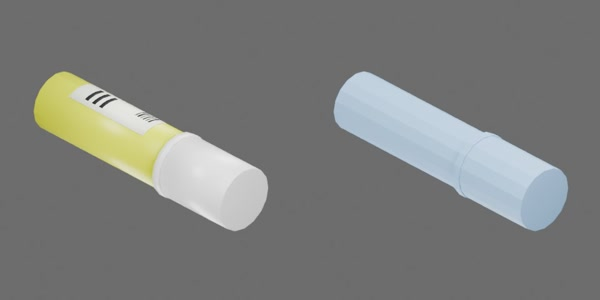
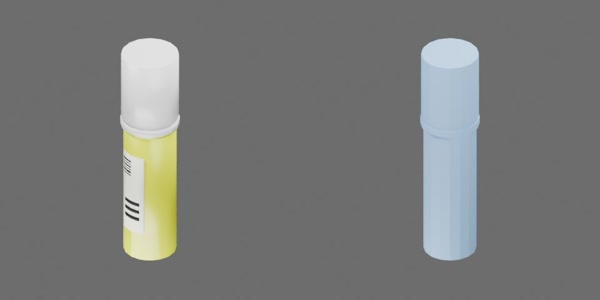
Correct stationery frames, moving assemblies and stapler stop

Changed region(s): [[0.03, 0.12, 0.45, 0.87], [0.54, 0.12, 0.96, 0.87]]

diff --git a/asset_sources/objects/stapler/000000/object.py b/asset_sources/objects/stapler/000000/object.py
@@ -17,6 +17,19 @@ if not (source.parent / "asset_builders.py").exists():
 from asset_builders import asset, body, box, collider, cylinder, generate, joint, material, mesh
 
 
+PIVOT = Vector((0.024, 0, 0.017))
+OPEN_ANGLE = math.radians(12)
+CHANNEL_FRONT = -0.0313
+CHANNEL_BOTTOM = 0.0145
+ANVIL_TOP = 0.00955
+# The front underside of the metal channel meets the anvil top at the stop.
+contact_dx = PIVOT.x - CHANNEL_FRONT
+contact_dz = CHANNEL_BOTTOM - PIVOT.z
+CONTACT_ANGLE = (math.asin((ANVIL_TOP - PIVOT.z) / math.hypot(contact_dx, contact_dz))
+                 - math.atan2(contact_dz, contact_dx))
+PRESS_LIMIT = CONTACT_ANGLE - OPEN_ANGLE
+
+
 def slab(name, length, width, bottom, front_top, rear_top, radius, position, surface, parent,
          rear_width=None):
     contour = []
@@ -47,7 +60,7 @@ def slab(name, length, width, bottom, front_top, rear_top, radius, position, sur
 def build():
     white = material("Ivory white molded plastic", (0.78, 0.80, 0.78), 0.29)
     blue = material("Baby blue upper cover", (0.27, 0.54, 0.72), 0.29)
-    metal = material("Stapler steel", (0.50, 0.54, 0.57), 0.24, metallic=0.92)
+    metal = material("Stapler steel", (0.65, 0.68, 0.70), 0.36, metallic=0.85)
     dark = material("Throat and clinch recess", (0.025, 0.03, 0.035), 0.65)
     root = asset("15_Mini_Stapler", "bottom center of the base", "+X length toward hinge; +Y width; +Z up",
                  "staple mouth at -X")
@@ -66,21 +79,25 @@ def build():
             bevel=0.001)
     cylinder("Recessed pivot axle", 0.0014, 0.022, (0.024, 0, 0.017), metal, base, axis="Y")
     upper = body("Stapler moving upper", root)
-    slab("Complete blue upper cover", 0.069, 0.028, -0.005, 0.004, 0.006, 0.006,
+    slab("Complete blue upper cover", 0.069, 0.028, 0, 0.008, 0.010, 0.006,
          (0.002, 0, 0.024), blue, upper, rear_width=0.020)
-    box("Dark central throat", (0.053, 0.010, 0.001), (-0.004, 0, 0.0185), dark, upper,
-        collision=False)
-    box("Steel magazine spine", (0.056, 0.011, 0.0015), (-0.004, 0, 0.0192), metal, upper)
-    for y in (-0.0062, 0.0062):
-        box("Steel magazine rail", (0.054, 0.0018, 0.0042), (-0.004, y, 0.021), metal, upper)
-    box("Magazine folded nose", (0.004, 0.014, 0.0045), (-0.031, 0, 0.0205), metal, upper)
-    box("Steel driver", (0.0025, 0.009, 0.006), (-0.031, 0, 0.021), metal, upper)
-    box("Blue rear bridge", (0.011, 0.020, 0.005), (0.024, 0, 0.0215), blue, upper)
-    pivot = Vector((0.024, 0, 0.017))
+    channel_length = 0.018 - CHANNEL_FRONT
+    channel_center = (0.018 + CHANNEL_FRONT) / 2
+    box("Steel staple channel floor", (channel_length, 0.0205, 0.0015),
+        (channel_center, 0, CHANNEL_BOTTOM + 0.00075), metal, upper)
+    for side, y in (("left", -0.0095), ("right", 0.0095)):
+        box(f"Steel staple channel {side} wall", (channel_length, 0.0015, 0.0065),
+            (channel_center, y, 0.01925), metal, upper)
+        box(f"Channel to cover {side} bracket", (0.003, 0.0025, 0.0035),
+            (0.012, y, 0.02325), metal, upper)
+    box("Steel channel front stop", (0.0018, 0.0205, 0.008),
+        (CHANNEL_FRONT + 0.0009, 0, 0.0185), metal, upper)
+    box("Steel driver", (0.001, 0.009, 0.005), (-0.0295, 0, 0.022), metal, upper)
+    box("Blue rear bridge", (0.011, 0.020, 0.006), (0.024, 0, 0.022), blue, upper)
     bpy.context.view_layer.update()
-    upper.matrix_basis = (Matrix.Translation(pivot) @ Matrix.Rotation(math.radians(7), 4, "Y")
-                          @ Matrix.Translation(-pivot))
-    joint("upper_press", "HINGE", base, upper, pivot, (-0.27, 0.70), (-math.pi / 2, 0, 0))
+    upper.matrix_basis = (Matrix.Translation(PIVOT) @ Matrix.Rotation(OPEN_ANGLE, 4, "Y")
+                          @ Matrix.Translation(-PIVOT))
+    joint("upper_press", "HINGE", base, upper, PIVOT, (PRESS_LIMIT, 0), (-math.pi / 2, 0, 0))
 
 
 def main(argv=None):

diff --git a/asset_sources/objects/glue/000000/object.py b/asset_sources/objects/glue/000000/object.py
@@ -1,4 +1,5 @@
 """White superglue bottle with a yellow tapered nozzle cap; one rigid body."""
+import math
 from pathlib import Path
 import sys
 
@@ -13,22 +14,24 @@ def build():
     white = material("White bottle plastic", (0.78, 0.80, 0.78), 0.29)
     yellow = material("Yellow nozzle and label", (0.70, 0.79, 0.012), 0.32)
     black = material("Label ink", (0.009, 0.012, 0.014), 0.70)
-    root = asset("12_Superglue_Bottle", "below bottle reference midpoint; center Z=0.0124 m",
-                 "+X length toward nozzle; +Y width; +Z up", "white bottle base at -X")
+    root = asset("12_Superglue_Bottle", "bottom center of the upright bottle",
+                 "+X width; +Y back; +Z upright toward nozzle", "label faces -Y")
     bottle = body("Superglue bottle", root)
-    cylinder("White glue bottle", 0.012, 0.039, (-0.010, 0, 0.0124), white, bottle)
-    cylinder("Yellow label band", 0.0121, 0.026, (-0.008, 0, 0.0124), yellow, bottle,
-             collision=False)
-    cylinder("White base rim", 0.0124, 0.006, (-0.032, 0, 0.0124), white, bottle)
-    cylinder("Yellow screw collar", 0.009, 0.010, (0.016, 0, 0.0124), yellow, bottle)
-    cylinder("Tapered nozzle cap", 0.0078, 0.039, (0.040, 0, 0.0124), yellow, bottle,
-             radius_end=0.0021)
-    label_patch("Black label stripe", 0.01236, 0.0025, (-0.022, 0, 0.0124), black, bottle,
-                span=1.5, segments=6)
-    label_patch("Black label block", 0.01236, 0.011, (-0.008, 0, 0.0124), black, bottle)
-    for x in (-0.011, -0.007, -0.003):
-        label_patch("Label print", 0.01245, 0.0015, (x, 0, 0.0124), yellow, bottle,
-                    span=0.7)
+    cylinder("White glue bottle", 0.012, 0.039, (0, 0, 0.025), white, bottle, axis="Z")
+    cylinder("Yellow label band", 0.0121, 0.026, (0, 0, 0.027), yellow, bottle,
+             axis="Z", collision=False)
+    cylinder("White base rim", 0.0124, 0.006, (0, 0, 0.003), white, bottle, axis="Z")
+    cylinder("White bottle neck", 0.0075, 0.004, (0, 0, 0.0455), white, bottle, axis="Z")
+    cylinder("Yellow screw collar", 0.009, 0.010, (0, 0, 0.051), yellow, bottle, axis="Z")
+    cylinder("Tapered nozzle cap", 0.0078, 0.039, (0, 0, 0.075), yellow, bottle,
+             axis="Z", radius_end=0.0021)
+    label_patch("Black label stripe", 0.01236, 0.0025, (0, 0, 0.013), black, bottle,
+                span=1.5, segments=6, axis="Z", angle=-math.pi / 2)
+    label_patch("Black label block", 0.01236, 0.011, (0, 0, 0.027), black, bottle,
+                axis="Z", angle=-math.pi / 2)
+    for z in (0.024, 0.028, 0.032):
+        label_patch("Label print", 0.01245, 0.0015, (0, 0, z), yellow, bottle,
+                    span=0.7, axis="Z", angle=-math.pi / 2)
 
 
 def main(argv=None):

diff --git a/asset_sources/objects/glue/000001/object.py b/asset_sources/objects/glue/000001/object.py
@@ -1,4 +1,5 @@
 """Yellow cylindrical glue stick and white cap, represented by one rigid body."""
+import math
 from pathlib import Path
 import sys
 
@@ -14,19 +15,21 @@ def build():
     white = material("White cap plastic", (0.78, 0.80, 0.78), 0.29)
     paper = material("Pale paper label", (0.87, 0.88, 0.77), 0.65)
     ink = material("Printed label", (0.009, 0.012, 0.014), 0.75)
-    root = asset("17_Yellow_Solid_Glue", "below tube reference midpoint; center Z=0.014 m",
-                 "+X length toward white cap; +Y width; +Z up", "yellow tube base at -X")
+    root = asset("17_Yellow_Solid_Glue", "bottom center of the upright tube",
+                 "+X width; +Y back; +Z upright toward white cap", "label faces -Y")
     stick = body("Glue stick", root)
-    cylinder("Yellow glue stick body", 0.0125, 0.070, (-0.020, 0, 0.014), yellow, stick)
-    cylinder("Yellow shoulder", 0.0128, 0.004, (0.014, 0, 0.014), yellow, stick)
-    cylinder("White cap", 0.0136, 0.036, (0.034, 0, 0.014), white, stick)
-    cylinder("White cap rim", 0.014, 0.0035, (0.0155, 0, 0.014), white, stick)
-    label_patch("Paper label", 0.0127, 0.042, (-0.020, 0, 0.014), paper, stick)
+    cylinder("Yellow glue stick body", 0.0125, 0.070, (0, 0, 0.035), yellow, stick, axis="Z")
+    cylinder("Yellow shoulder", 0.0128, 0.004, (0, 0, 0.069), yellow, stick, axis="Z")
+    cylinder("White cap", 0.0136, 0.036, (0, 0, 0.089), white, stick, axis="Z")
+    cylinder("White cap rim", 0.014, 0.0035, (0, 0, 0.0705), white, stick, axis="Z")
+    label_patch("Paper label", 0.0127, 0.042, (0, 0, 0.035), paper, stick,
+                axis="Z", angle=-math.pi / 2)
     for i, width in enumerate((0.0005, 0.0009, 0.0004, 0.0007, 0.0004, 0.0008)):
-        label_patch("Barcode line", 0.01278, width, (-0.010 + i * 0.0015, 0, 0.014),
-                    ink, stick, angle=1.32, span=0.5)
-    for x in (-0.033, -0.029, -0.025):
-        label_patch("Label print", 0.01278, 0.0018, (x, 0, 0.014), ink, stick, span=0.75)
+        label_patch("Barcode line", 0.01278, width, (0, 0, 0.045 + i * 0.0015),
+                    ink, stick, angle=-1.82, span=0.5, axis="Z")
+    for z in (0.022, 0.026, 0.030):
+        label_patch("Label print", 0.01278, 0.0018, (0, 0, z), ink, stick, span=0.75,
+                    axis="Z", angle=-math.pi / 2)
 
 
 def main(argv=None):

diff --git a/tests/modeling/test_geometry_checks.py b/tests/modeling/test_geometry_checks.py
@@ -91,21 +91,23 @@ class AcceptanceTests(unittest.TestCase):
             'convex_vertices': 64, 'convex_faces': 48,
         })
 
-    def test_pen_independent_slider_travel(self):
+    def test_pen_button_and_refill_share_slider(self):
         path=options.assets_root/'pen/000000/object.blend'
         camera=[.82,-.82,.72,0,0,1]
         with tempfile.TemporaryDirectory(dir=options.output) as tmp:
-            for values in ({'button_press':-.003}, {'refill_extend':-.003}):
+            for values in ({'button_press':-.003}, {'button_press':0}):
                 views={'pose.jpg':[{'frame':0,'camera':camera,'joints':values}]}
                 run_worker(path,views,Path(tmp),True)
                 checks=GeometryChecks()
-                self.assertEqual(len(checks.bodies),3)
+                self.assertEqual(len(checks.bodies),2)
+                self.assertEqual(len(checks.report['joints']),1)
                 self.assertFalse(checks.ignored)
-                for name in ('button_press','refill_extend'):
-                    c=bpy.data.objects[name].rigid_body_constraint
-                    self.assertEqual(c.type,'SLIDER')
-                    self.assertAlmostEqual(c.object2.matrix_world.translation.x,values.get(name,0),places=6)
-                    self.assertAlmostEqual(c.object1.matrix_world.translation.x,0,places=6)
+                c=bpy.data.objects['button_press'].rigid_body_constraint
+                self.assertEqual(c.type,'SLIDER')
+                self.assertAlmostEqual(c.object2.matrix_world.translation.x,values['button_press'],places=6)
+                self.assertAlmostEqual(c.object1.matrix_world.translation.x,0,places=6)
+                for name in ('Silver push button','Refill shaft','Fine ballpoint'):
+                    self.assertEqual(bpy.data.objects[name].parent,c.object2)
 
 
 result=unittest.TextTestRunner(verbosity=2).run(unittest.defaultTestLoader.loadTestsFromTestCase(AcceptanceTests))

diff --git a/asset_sources/objects/pen/000000/object.py b/asset_sources/objects/pen/000000/object.py
@@ -1,7 +1,7 @@
-"""Black retractable ballpoint: hollow barrel, independent button and refill.
+"""Black retractable ballpoint: hollow shell and one moving button/refill body.
 
 Local +X points to the button; tip is -X; barrel center is Z=0.006 m.
-Two native sliders describe travel, without spring or click-lock dynamics.
+One native slider describes travel, without spring or click-lock dynamics.
 """
 from pathlib import Path
 import sys
@@ -30,13 +30,11 @@ def build():
         bevel=0.0008)
     box("Pocket clip bridge", (0.004, 0.0055, 0.003), (0.050, 0.0025, 0.011), black, shell,
         bevel=0.0008)
-    button = body("Black pen button", root)
-    cylinder("Silver push button", 0.003, 0.012, (0.062, 0, 0.006), metal, button)
-    refill = body("Black pen refill", root)
-    cylinder("Refill shaft", 0.0009, 0.124, (-0.009, 0, 0.006), ink, refill)
-    cylinder("Fine ballpoint", 0.00045, 0.010, (-0.0753, 0, 0.006), metal, refill)
-    joint("button_press", "SLIDER", shell, button, (0.056, 0, 0.006), (-0.003, 0))
-    joint("refill_extend", "SLIDER", shell, refill, (-0.071, 0, 0.006), (-0.003, 0))
+    moving = body("Black pen button and refill", root)
+    cylinder("Silver push button", 0.003, 0.012, (0.062, 0, 0.006), metal, moving)
+    cylinder("Refill shaft", 0.0009, 0.127, (-0.0075, 0, 0.006), ink, moving)
+    cylinder("Fine ballpoint", 0.00045, 0.010, (-0.0753, 0, 0.006), metal, moving)
+    joint("button_press", "SLIDER", shell, moving, (0.056, 0, 0.006), (-0.003, 0))
 
 
 def main(argv=None):

diff --git a/asset_sources/objects/pen/000001/object.py b/asset_sources/objects/pen/000001/object.py
@@ -1,4 +1,4 @@
-"""White/black retractable pen: shell, push button and movable refill.
+"""White/black retractable pen: shell and one moving button/refill body.
 
 Local +X points to the button; tip is -X; barrel center is Z=0.005 m.
 The black rear housing is fixed; only its small end button translates.
@@ -27,13 +27,11 @@ def build():
          outer_end=0.0049, inner_end=0.0028)
     tube("Black shoulder", 0.0055, 0.0028, 0.003, (0.055, 0, 0.005), black, shell,
          collision=False)
-    button = body("White black pen button", root)
-    cylinder("Black push button", 0.003, 0.007, (0.0715, 0, 0.005), black, button)
-    refill = body("White black pen refill", root)
-    cylinder("Refill shaft", 0.0008, 0.138, (-0.007, 0, 0.005), ink, refill)
-    cylinder("Fine ballpoint", 0.0003, 0.010, (-0.0813, 0, 0.005), metal, refill)
-    joint("button_press", "SLIDER", shell, button, (0.068, 0, 0.005), (-0.003, 0))
-    joint("refill_extend", "SLIDER", shell, refill, (-0.076, 0, 0.005), (-0.003, 0))
+    moving = body("White black pen button and refill", root)
+    cylinder("Black push button", 0.003, 0.007, (0.0715, 0, 0.005), black, moving)
+    cylinder("Refill shaft", 0.0008, 0.144, (-0.004, 0, 0.005), ink, moving)
+    cylinder("Fine ballpoint", 0.0003, 0.010, (-0.0813, 0, 0.005), metal, moving)
+    joint("button_press", "SLIDER", shell, moving, (0.068, 0, 0.005), (-0.003, 0))
 
 
 def main(argv=None):

diff --git a/table_1000/modeling/asset_builders.py b/table_1000/modeling/asset_builders.py
@@ -180,11 +180,11 @@ def tube(name, outer, inner, depth, position, surface, parent, axis="X",
 
 
 def label_patch(name, radius, depth, position, surface, parent, angle=math.pi / 2,
-                span=1.12, segments=4):
-    """A thin closed label following the upper surface of an X-axis cylinder."""
+                span=1.12, segments=4, axis="X"):
+    """A thin closed label following a cylindrical surface."""
     count = segments + 1
-    vertices = [(x, r * math.cos(angle - span / 2 + i * span / segments),
-                  r * math.sin(angle - span / 2 + i * span / segments))
+    vertices = [axis_point(x, r * math.cos(angle - span / 2 + i * span / segments),
+                          r * math.sin(angle - span / 2 + i * span / segments), axis)
                 for x, r in ((-depth / 2, radius), (depth / 2, radius),
                              (-depth / 2, radius - 0.00005), (depth / 2, radius - 0.00005))
                 for i in range(count)]

diff --git a/asset_sources/objects/stapler/000000/README.md b/asset_sources/objects/stapler/000000/README.md
@@ -2,21 +2,6 @@
 
 ![左视觉、右碰撞](three_quarter.jpg)
 
-白色浅底座、连续浅蓝上盖、钢制订书槽和砧座；保留真实开放喉口。约 70 × 30 × 37 mm（零位）。
+白色浅底座、浅蓝上盖和金属钉槽，约 70 × 30 × 43 mm（初始打开姿态）。
 
-基座与活动上部共两个 Compound 刚体。上盖、钢槽和压针件作为同一活动组件；闭合凸板件和 BOX 碰撞保留喉口与后铰链间隙。
-
-原点为底座底面中心；+X 沿长度指向后铰链，+Y 为宽度，+Z 向上，订书口朝 −X。
-
-原生 `HINGE`：`upper_press`，轴沿 +Y，零位在参考静态姿态，限位 [−0.27, 0.70] rad；负值按压至压针件接近砧座，正值展开。`press_and_open.mp4` 以 24 FPS 覆盖零位和两个限位。当前只验证行程与碰撞空间；弹簧回弹、纸张和订书钉动力学留待下一阶段。
-
-在仓库根目录生成并验收：
-
-```bash
-blender -b --python-exit-code 1 -P asset_sources/objects/stapler/000000/object.py -- --output assets/objects/stapler/000000
-uv run python scripts/assets/validate_and_preview.py assets/objects/stapler/000000/object.blend --views asset_sources/objects/stapler/000000/preview.json
-```
-
-`three_quarter.jpg` 为 600 × 300 的源目录缩略图，左视觉、右碰撞，随 Git 提交。完整模型、六视图、动画和验收报告保存在生成目录，不提交。资产身份见 `metadata.json`；修改既有资产时保留 UUID。
-
-生成目录还保存 `asset_builders.py`，与 `object.py`、`preview.json` 和 `metadata.json` 构成可独立重建的源码快照。共用函数在 `table_1000/modeling/asset_builders.py` 维护。
+包括两个刚体组件：基座；上盖、金属钉槽和压针件构成的活动上部。铰链 `upper_press` 沿 +Y 轴，限位约 [−0.299254, 0] rad。零位为最大打开姿态，负值下压至金属钉槽接触底座。

diff --git a/asset_sources/objects/pen/000000/README.md b/asset_sources/objects/pen/000000/README.md
@@ -2,21 +2,6 @@
 
 ![左视觉、右碰撞](three_quarter.jpg)
 
-黑色漆面、银色鼻锥与四圈握环，保留原资产 UUID。按照片与尺度线索建模，约 149 × 13 × 14 mm。
+黑色漆面笔杆、银色鼻锥与握环，约 149 × 13 × 14 mm。
 
-笔壳、按钮、笔芯共三个 Compound 刚体。空心笔壳与鼻锥采用 16 段闭合凸碰撞块，留出按钮和笔芯通道；握环仅作为视觉细节。
-
-原点在笔杆中点下方，杆中心 Z=0.006 m；+X 沿长度指向按钮，+Y 为宽度，+Z 向上，笔尖朝 −X。
-
-两个原生 `SLIDER`：`button_press` 与 `refill_extend`，各限位 [−0.003, 0] m。负值向笔尖平移。`press_and_extend.mp4` 以 24 FPS 演示按压、伸芯、按钮释放与再次按压收芯；这是独立指定的几何行程，未模拟按压自锁、凸轮或弹簧动力学。
-
-在仓库根目录生成并验收：
-
-```bash
-blender -b --python-exit-code 1 -P asset_sources/objects/pen/000000/object.py -- --output assets/objects/pen/000000
-uv run python scripts/assets/validate_and_preview.py assets/objects/pen/000000/object.blend --views asset_sources/objects/pen/000000/preview.json
-```
-
-`three_quarter.jpg` 为 600 × 300 的源目录缩略图，左视觉、右碰撞，随 Git 提交。完整模型、六视图、动画和验收报告保存在生成目录，不提交。资产身份见 `metadata.json`；修改既有资产时保留 UUID。
-
-生成目录还保存 `asset_builders.py`，与 `object.py`、`preview.json` 和 `metadata.json` 构成可独立重建的源码快照。共用函数在 `table_1000/modeling/asset_builders.py` 维护。
+包括两个刚体组件：笔身；笔尖、笔芯和后部按钮构成的活动组件。滑动关节 `button_press` 限位 [−0.003, 0] m，负值使活动组件一起朝笔尖方向移动。

diff --git a/asset_sources/objects/pen/000001/README.md b/asset_sources/objects/pen/000001/README.md
@@ -2,21 +2,6 @@
 
 ![左视觉、右碰撞](three_quarter.jpg)
 
-白色笔杆、黑色后壳与长鼻锥，按照片与尺度线索建模，约 162 × 11 × 11 mm。
+白色笔杆、黑色后壳与长鼻锥，约 162 × 11 × 11 mm。
 
-笔壳、按钮、笔芯共三个 Compound 刚体。黑色后壳属于固定笔壳，端部小按钮单独运动；16 段空心凸碰撞块保留芯通道。
-
-原点在笔杆参考中点下方，杆中心 Z=0.005 m；+X 沿长度指向按钮，+Y 为宽度，+Z 向上，笔尖朝 −X。
-
-两个原生 `SLIDER`：`button_press` 与 `refill_extend`，各限位 [−0.003, 0] m。`press_and_extend.mp4` 以 24 FPS 演示独立指定的按压与伸缩行程；自锁、内部凸轮和弹簧动力学留待下一阶段。
-
-在仓库根目录生成并验收：
-
-```bash
-blender -b --python-exit-code 1 -P asset_sources/objects/pen/000001/object.py -- --output assets/objects/pen/000001
-uv run python scripts/assets/validate_and_preview.py assets/objects/pen/000001/object.blend --views asset_sources/objects/pen/000001/preview.json
-```
-
-`three_quarter.jpg` 为 600 × 300 的源目录缩略图，左视觉、右碰撞，随 Git 提交。完整模型、六视图、动画和验收报告保存在生成目录，不提交。资产身份见 `metadata.json`；修改既有资产时保留 UUID。
-
-生成目录还保存 `asset_builders.py`，与 `object.py`、`preview.json` 和 `metadata.json` 构成可独立重建的源码快照。共用函数在 `table_1000/modeling/asset_builders.py` 维护。
+包括两个刚体组件：笔身；笔尖、笔芯和后部按钮构成的活动组件。滑动关节 `button_press` 限位 [−0.003, 0] m，负值使活动组件一起朝笔尖方向移动。

diff --git a/docs/designs/storage-layout.md b/docs/designs/storage-layout.md
@@ -26,7 +26,7 @@ assets/
 
 `object.py` 只生成自己的资产；统一执行入口调用其 `main(argv)`，通过 `--output` 指定产物目录。`preview.json` 定义预览，`physics.json` 定义物理属性；尚未做到相应阶段时不要求提供对应配置。
 
-每个源目录的简洁 `README.md` 说明结构、局部坐标、关节行程、当前物理阶段和复现命令。`three_quarter.jpg` 是约 600 × 300 的四分之三缩略图，左视觉、右碰撞；两者随 Git 保存。缩略图优先保持辨识度，通常约 20 KB。完整六视图、动画和验收报告仍属于生成物，保存在 `assets/`，不提交。
+每个源目录的简洁 `README.md` 只引用一张 `three_quarter.jpg`，并简述外观、尺寸和刚体数；多组件资产列出组件名称以及关节类型、限位和运动方向。复现命令、碰撞实现和阶段说明放在教程或设计文档。`three_quarter.jpg` 是约 600 × 300 的四分之三缩略图，左视觉、右碰撞；两者随 Git 保存。缩略图优先保持辨识度，通常约 20 KB。完整六视图、动画和验收报告仍属于生成物，保存在 `assets/`，不提交。
 
 一个包含多个可动部件的逻辑对象作为一个对象资产保存。生成的 `.blend` 保存建模结果，`.usd` 或 `.usdz` 保存仿真导出结果，预览图片和视频保存在 `preview/`。这些文件不提交到 Git；未完成导出的阶段不要求存在 `.usdz`。
 
